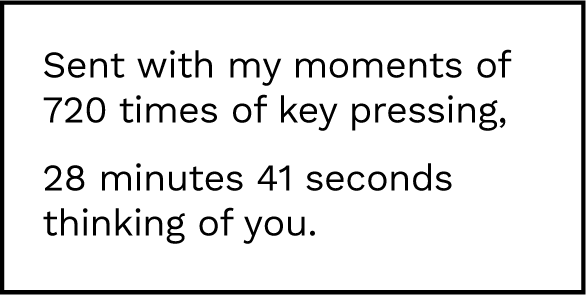
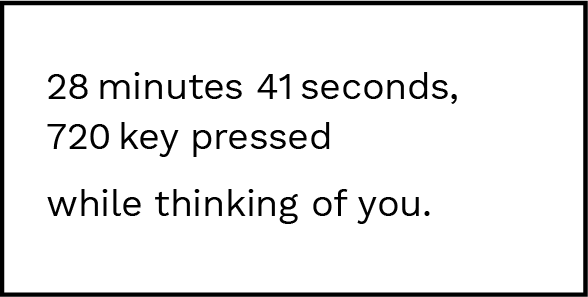
update_aftercrit

diff --git a/morethanpixel/receipt/style.css b/morethanpixel/receipt/style.css
@@ -91,6 +91,13 @@ textarea:focus, input:focus{
 #paper {
     position:absolute;  
     top:580px; left:20px;
+    z-index: 99;
+    background-color:aliceblue;
+    border:2px solid black;
+    width:328px;
+    height:160px;
+    padding:15px;
+    line-height: 1.7;
 }
 
 #paper p {
@@ -99,22 +106,11 @@ textarea:focus, input:focus{
     font-size:24px;
 }
 
-#myoutput {
-    position:absolute;  
-    z-index: 99;
-    top:0px; left:0px;
-    background-color:aliceblue;
-    border:2px solid black;
-    width:328px;
-    height:160px;
-    padding:15px;
-    line-height: 1.2;
-}
 
 #paper #lastkey {
     width:460px;
     height:auto;
-    top:117px; left:380px;
+    top:-400px; left:100px;
     background-color:white;
     border:2px solid;
     overflow: auto;
@@ -130,10 +126,11 @@ textarea:focus, input:focus{
 
 #btn-showTime {
     position:absolute;   
-    top:100px; left:12px;
+    top:2px; right:2px;
     width:42px; height:42px;
     z-index: 999;   
     background-color:white;
+    border:2px solid black;
 }
 
 #btn-showTime img {
@@ -144,8 +141,11 @@ textarea:focus, input:focus{
 
 #timeoutput {
     position:absolute;
-    top:100px; left:60px;
-    width:300px;
-    background-color:aliceblue;
+    top:40px; left:23px;
+    width:auto;
     z-index: 999;
+}
+
+#myoutput {
+    top:66px; left:23px;
 }

diff --git a/morethanpixel/receipt/index.html b/morethanpixel/receipt/index.html
@@ -74,7 +74,7 @@
                 keycount++;
                 
                 // show keycount
-                $("#myoutput").html("Sent with my moments of " + keycount + " times of key pressing");
+                $("#myoutput").html("" + keycount + " key pressed<br>while thinking of you.");
                 
                 // add to output
                 output += e.key;
@@ -92,10 +92,12 @@
                 var secs = outputTime % 60;
                 outputTime = (outputTime - secs) / 60;
                 var mins = outputTime % 60;
-                var hrs = (outputTime - mins) / 60;
+              //var hrs = (outputTime - mins) / 60;
                 
                 // outcome
-                var formattedTime = hrs + ' hours ' + mins + ' mins ' + secs + ' seconds' + ' thinking of you.';
+                var formattedTime = //hrs + ' hours ' + 
+                    
+                    mins + ' minutes ' + secs + ' seconds' +',';
                 
                 // show outcome in html
                 $("#timeoutput").html(formattedTime);
